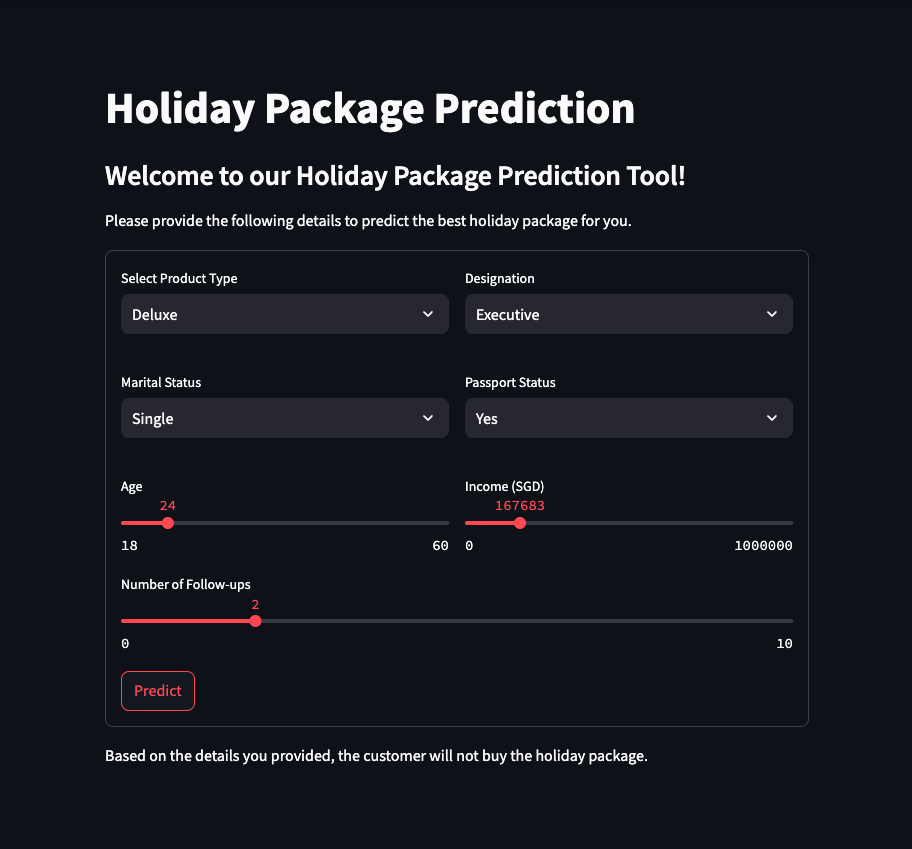
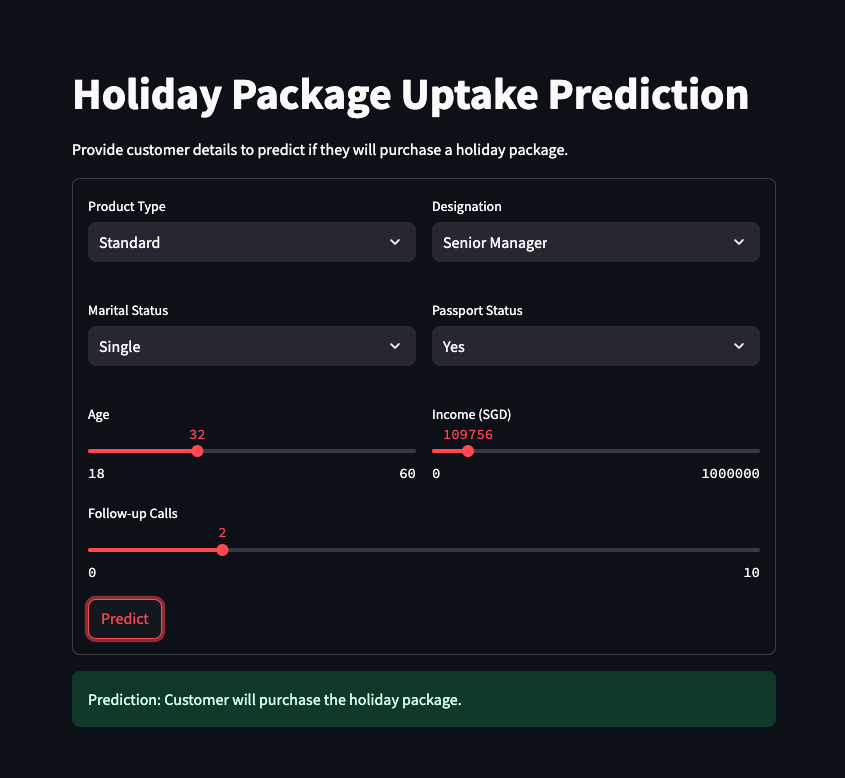
update website

Changed region(s): [[0.0615, 0.1851, 0.9231, 0.9563], [0.0923, 0.0925, 0.8923, 0.1542]]

diff --git a/src/main.py b/src/main.py
@@ -20,8 +20,8 @@ designation_le = data['designation']
 
 
 
-def show_classifer_page():
-    st.set_page_config(page_title='Holiday Package Prediction', layout='centered')
+def show_classifier_page():
+    st.set_page_config(page_title='Holiday Package Uptake Prediction', layout='centered')
     
     st.markdown(
         """
@@ -35,21 +35,16 @@ def show_classifer_page():
         unsafe_allow_html=True
     )
     
-    # Title and Description
-    st.title('Holiday Package Prediction')
-    st.markdown(
-        """
-        ### Welcome to our Holiday Package Prediction Tool!
-        Please provide the following details to predict the best holiday package for you.
-        """
-    )
-    
+    # Header
+    st.title('Holiday Package Uptake Prediction')
+    st.markdown("Provide customer details to predict if they will purchase a holiday package.")
+
     # Form Layout
     with st.form(key='prediction_form'):
         col1, col2 = st.columns(2)
         
         with col1:
-            product_choice = st.selectbox('Select Product Type', ('Basic', 'Standard', 'Deluxe', 'Super Deluxe', 'Premium'))
+            product_choice = st.selectbox('Product Type', ('Basic', 'Standard', 'Deluxe', 'Super Deluxe', 'Premium'))
             marital_status_choice = st.selectbox('Marital Status', ('Single', 'Married', 'Divorced', 'Unmarried'))
             age = st.slider('Age', 18, 60)
             
@@ -58,8 +53,7 @@ def show_classifer_page():
             passport_choice = st.selectbox('Passport Status', (0, 1), format_func=lambda x: 'Yes' if x == 1 else 'No')
             income = st.slider('Income (SGD)', 0, 1000000)
         
-        num_followups = st.slider('Number of Follow-ups', 0, 10)
-        
+        num_followups = st.slider('Follow-up Calls', 0, 10)
         submit_button = st.form_submit_button(label='Predict')
     
     # Prediction Logic
@@ -71,12 +65,13 @@ def show_classifer_page():
         X = X.astype(float)
 
         prediction = classifier.predict(X)
-        result = 'buy' if prediction == 1 else 'not buy'
+        result = 'purchase' if prediction == 1 else 'not purchase'
 
-        st.write(f'Based on the details you provided, the customer will {result} the holiday package.')
+        st.success(f'Prediction: Customer will {result} the holiday package.')
+
+show_classifier_page()
 
 
-show_classifer_page()
 
 
 
